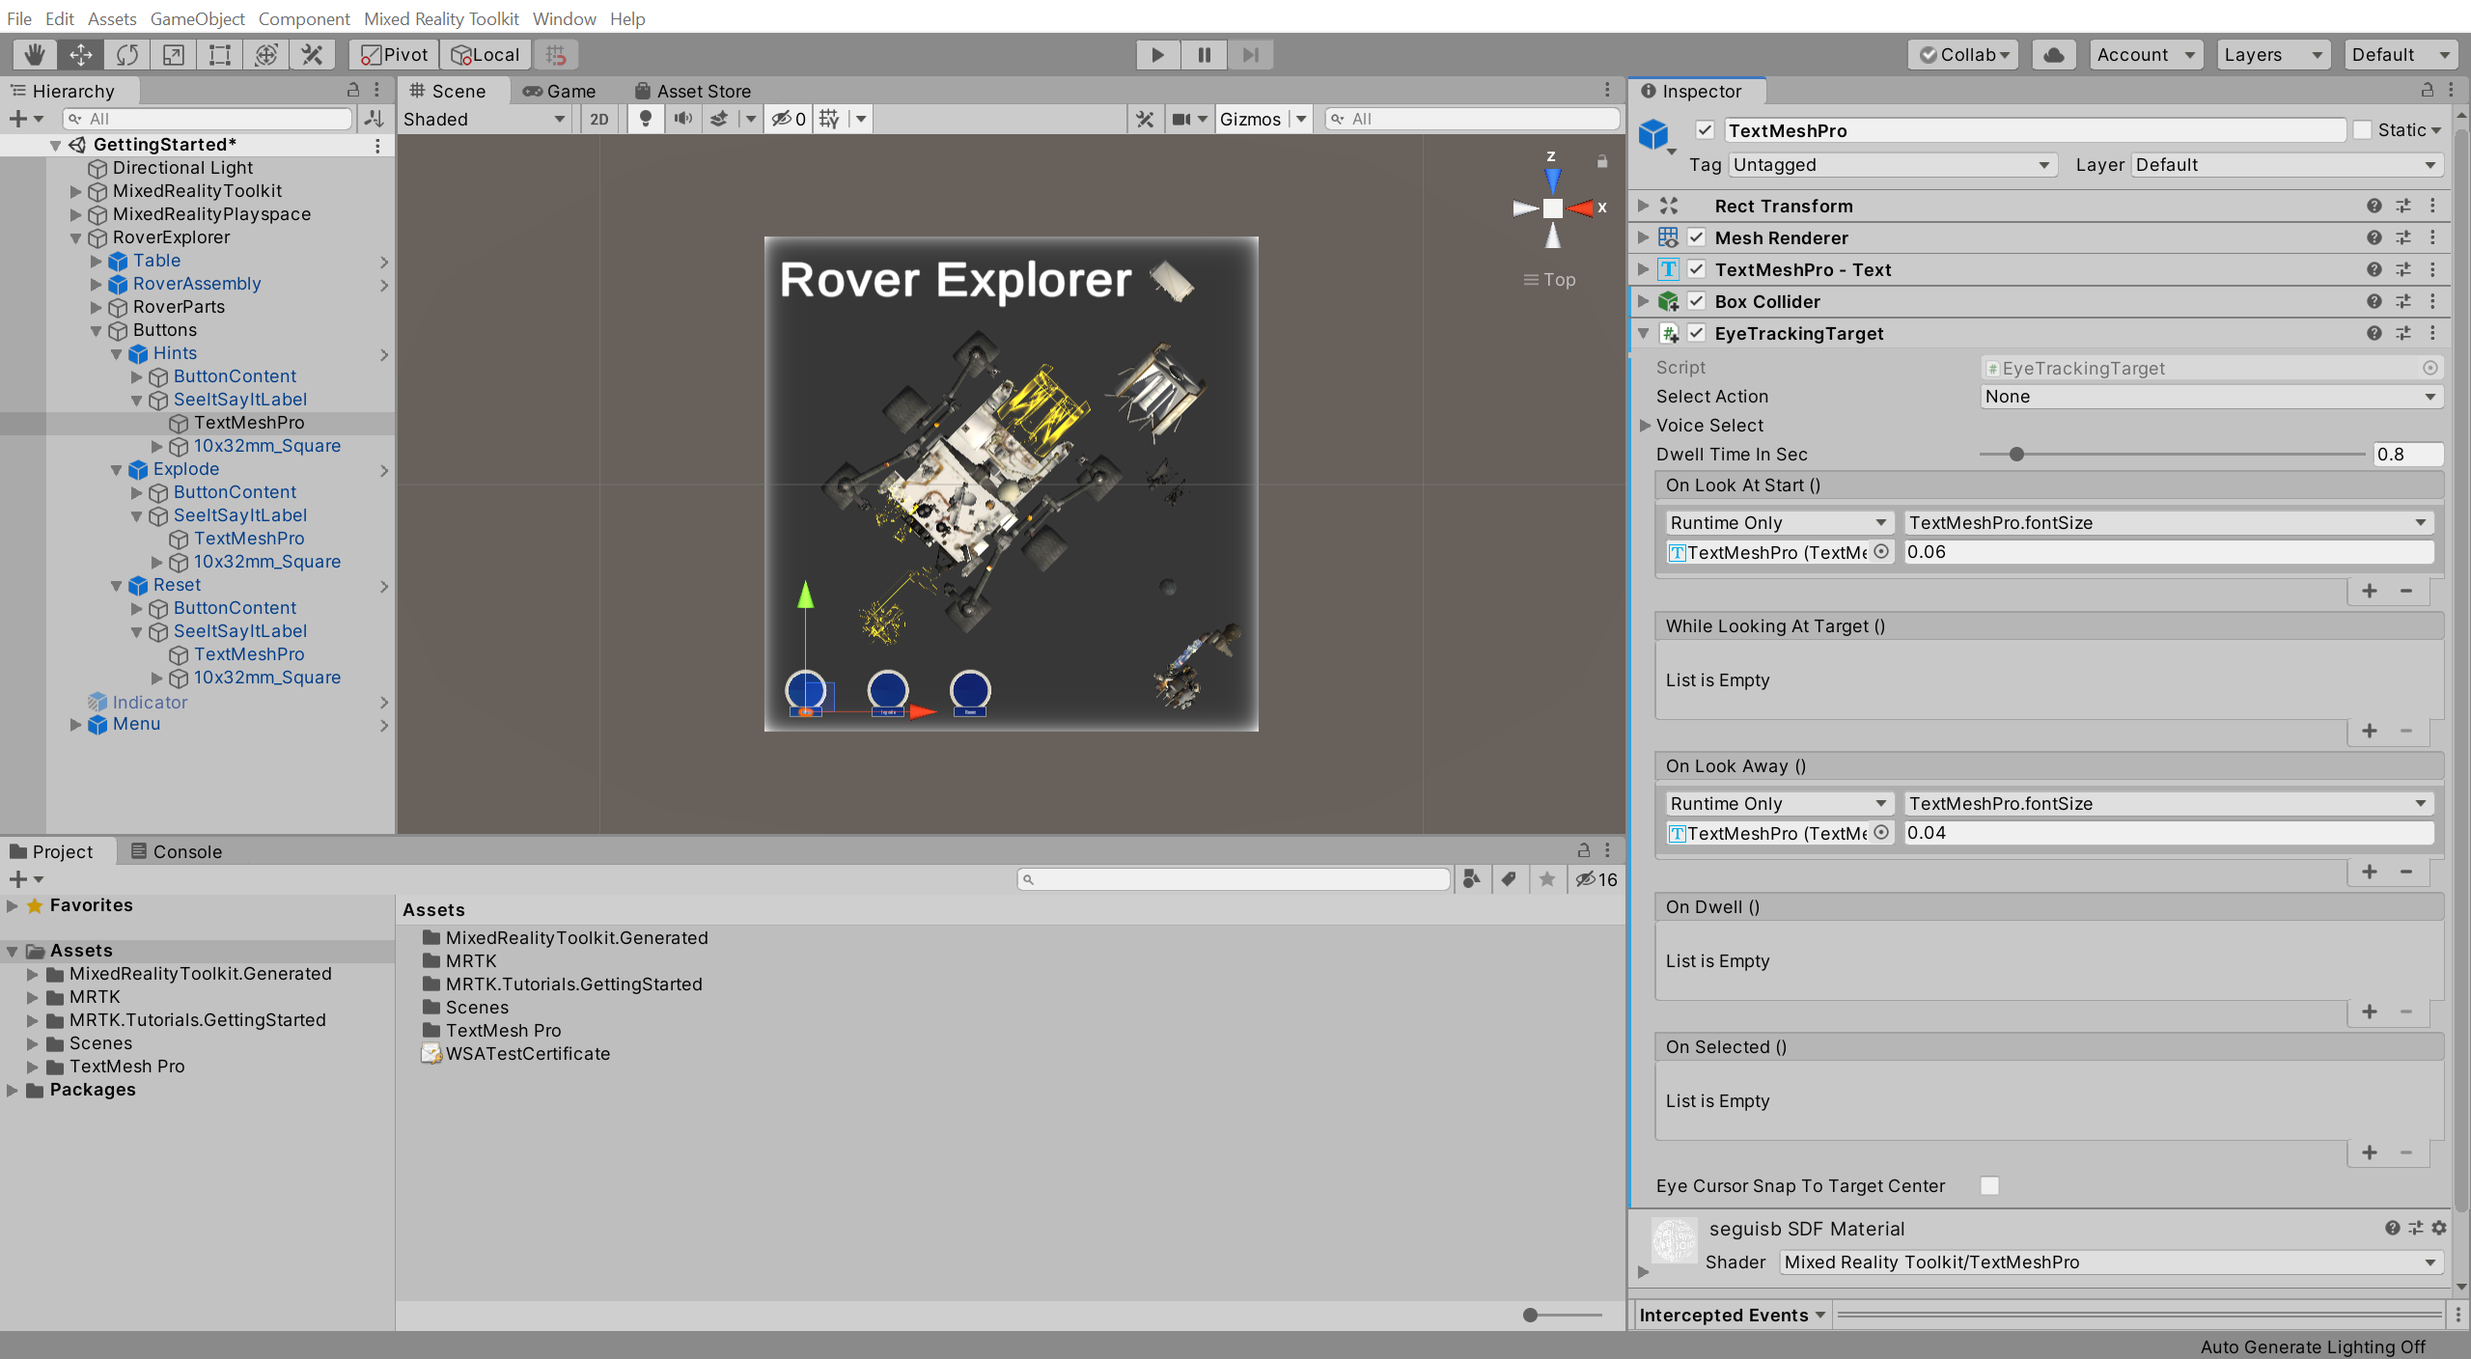
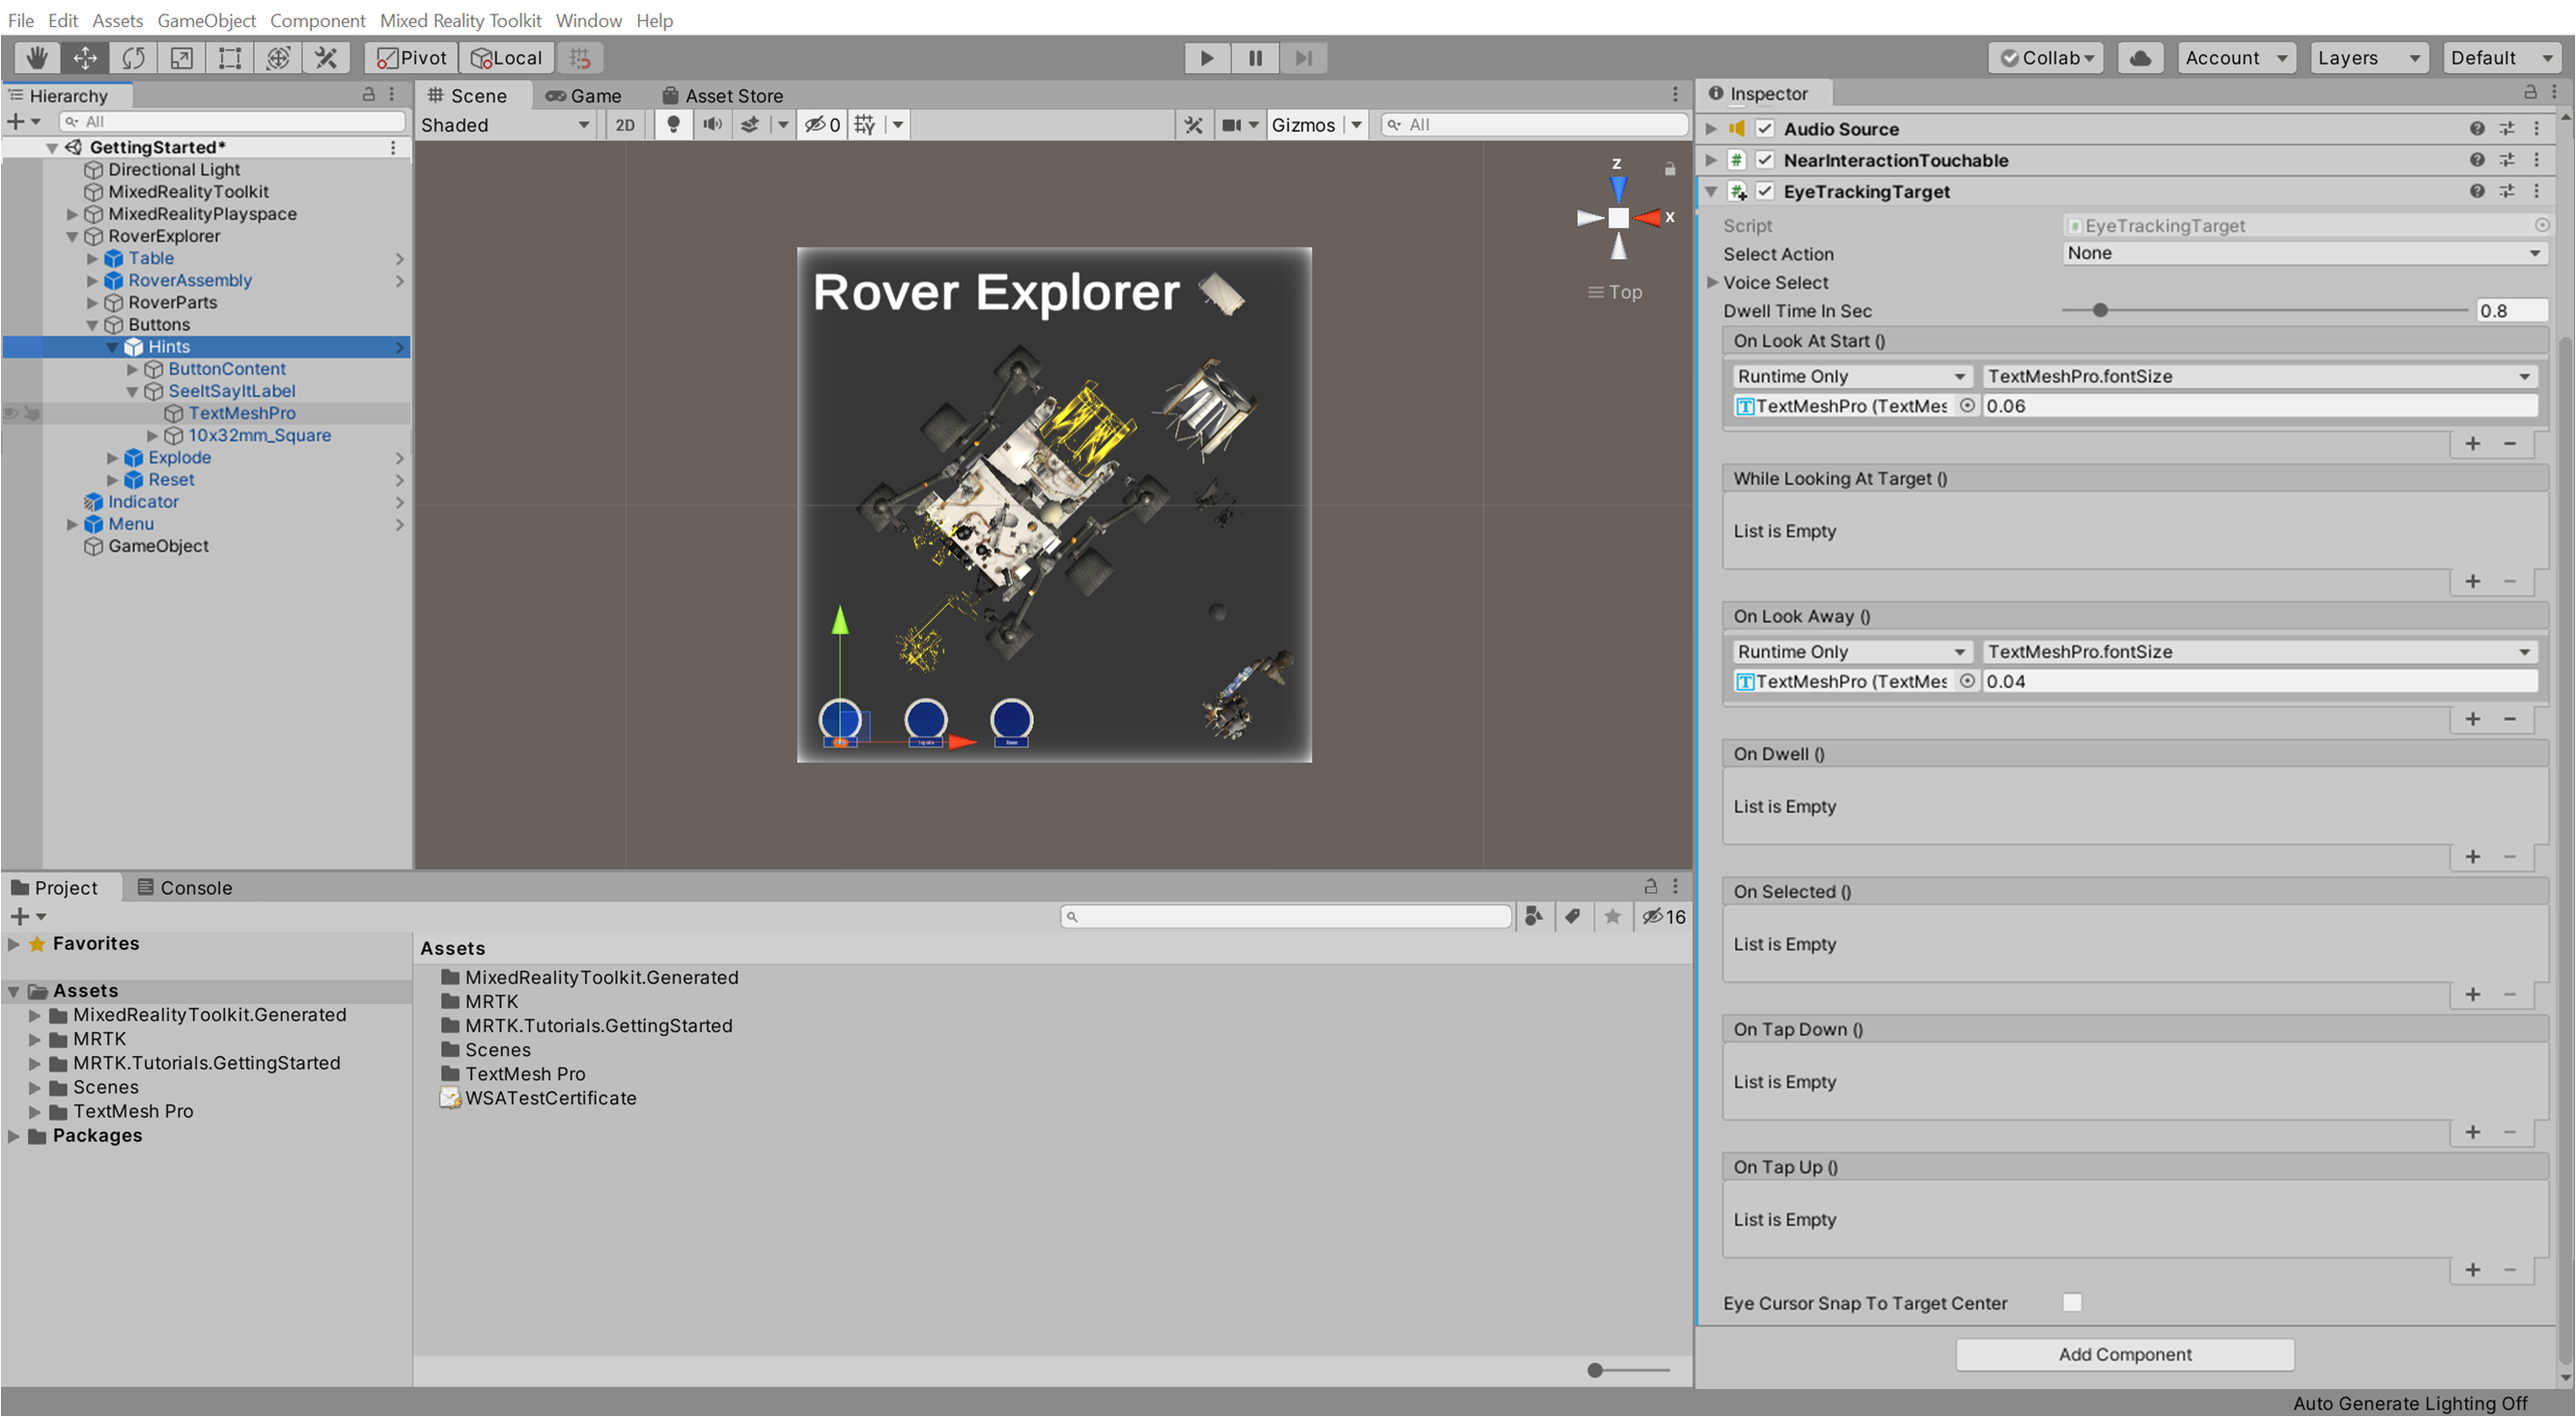
Eye tracking configured for buttons and tutorials updated

diff --git a/mixed-reality-docs/mr-dev-docs/develop/unity/tutorials/mr-learning-base-08.md b/mixed-reality-docs/mr-dev-docs/develop/unity/tutorials/mr-learning-base-08.md
@@ -56,35 +56,34 @@ In the Hierarchy window, select the **MixedRealityToolkit** object, then in the 
 
 ## Adding eye-tracking to objects
 
-In the Hierarchy window, expand the RoverExplorer > **Buttons** object, then for each of the three child button objects, expand and select the SeeItSayItLabel > **TextMeshPro** object:
+In the Hierarchy window, expand the **RoverExplorer** > **Buttons**, then select all three of the child button objects:
 
-![Unity with TextMeshPro object selected](images/mr-learning-base/base-08-section4-step1-1.png)
+![Unity with Button object selected](images/mr-learning-base/base-08-section4-step1-1.png)
 
-With the three TextMeshPro objects still selected, in the Inspector window, use the **Add Component** button to add the following components to all the selected objects:
-
-* **Box Collider** component
-* **EyeTrackingTarget** component
+With all three Button objects still selected, in the Inspector window use the **Add Component** button to add the **EyeTrackingTarget** component to all the selected objects:
 
 ![Unity with TextMeshPro object selected and components added](images/mr-learning-base/base-08-section4-step1-2.png)
 
-In the Hierarchy window, select the **Hints** > SeeItSayItLabel > **TextMeshPro** object, then configure the **EyeTrackingTarget** component as follows:
+In the Hierarchy window, expand **RoverExplorer** > **Buttons** > **Hints** > **SeeItSayItLabel** > **TextMeshPro**
+
+Then in the Hierarchy window, select the **Hints** button object , and configure the **EyeTrackingTarget** component as follows:
 
 * In the **On Look At Start ()** event section
   * Click the small **+** icon to add another event
-  * Assign the object itself, i.e. the same **TextMeshPro** object, to the **None (Object)** field
+  * Assign the  **TextMeshPro** object from the **Hints** button to the **None (Object)** field
   * From the **No Function** dropdown, select **TextMeshPro** > **float fontSize** to update this property value when the event is triggered
   * Set the argument to **0.06** to increase the current font size of 0.04 by 50%
 * In the **On Look Away ()** event section
   * Click the small **+** icon to add another event
-  * Assign the object itself, i.e. the same **TextMeshPro** object, to the **None (Object)** field
+  * Assign the  **TextMeshPro** object from the **Hints** button to the **None (Object)** field
   * From the **No Function** dropdown, select **TextMeshPro** > **float fontSize** to update this property value when the event is triggered
   * Set the argument to **0.04** to reset the font size back to 0.04
 
 ![Unity with Hints TextMeshPro object selected and EyeTrackingTarget component configured](images/mr-learning-base/base-08-section4-step1-3.png)
 
-**Repeat** this step for the **Explode** > SeeItSayItLabel > **TextMeshPro** object and the **Reset** > SeeItSayItLabel > **TextMeshPro** object.
+**Repeat** this step for **Explode** and **Reset** button object to configure eye tracking for remaining buttons.
 
-If you now enter Game mode and then press-and-hold the right mouse button while moving your mouse until the gaze hit's one of the labels, you will see the font size increase by 50% and reset back to its original size when looking away:
+If you now enter Game mode and then press-and-hold the right mouse button while moving your mouse until the gaze hit's one of the buttons, you will see the text font size increase by 50% and reset back to its original size when looking away:
 
 ![Unity Play mode split view with gaze hitting eye tracking target Explode button label](images/mr-learning-base/base-08-section4-step1-4.png)
 
